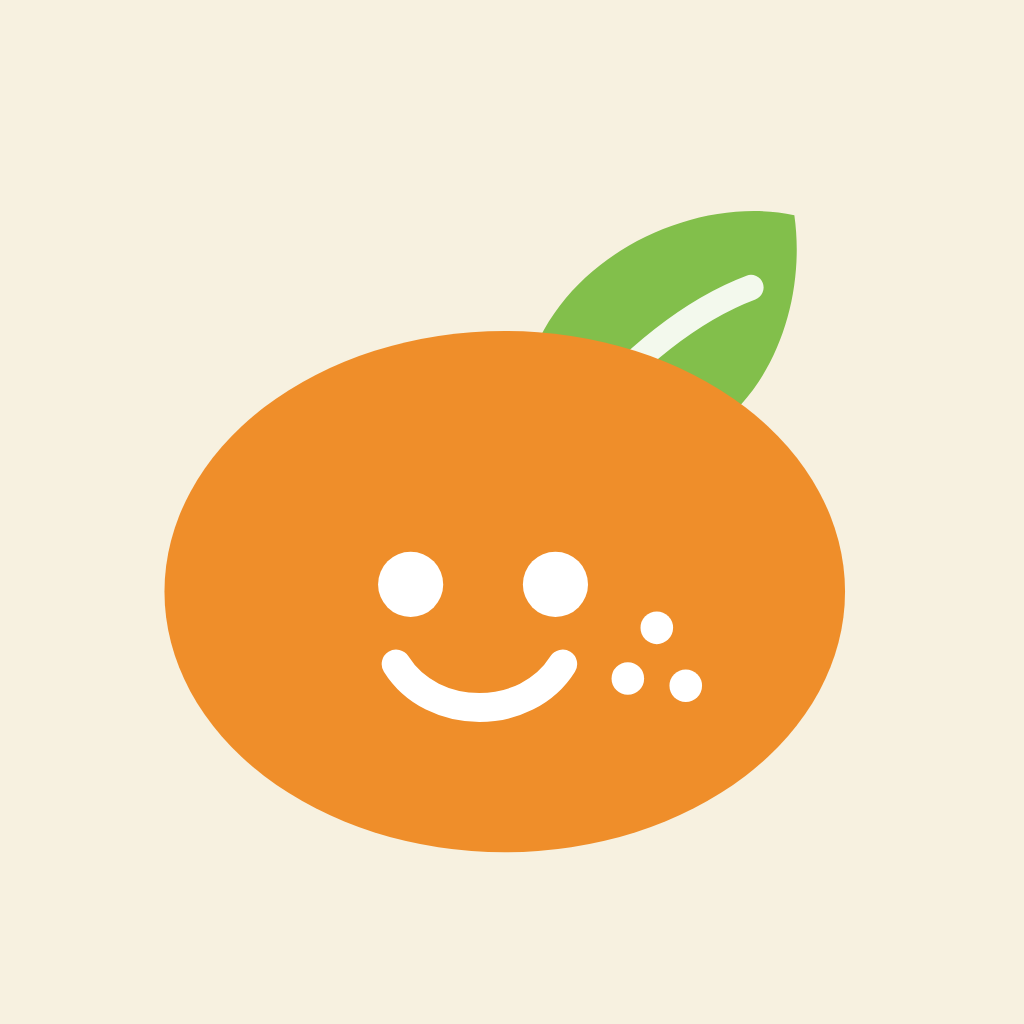
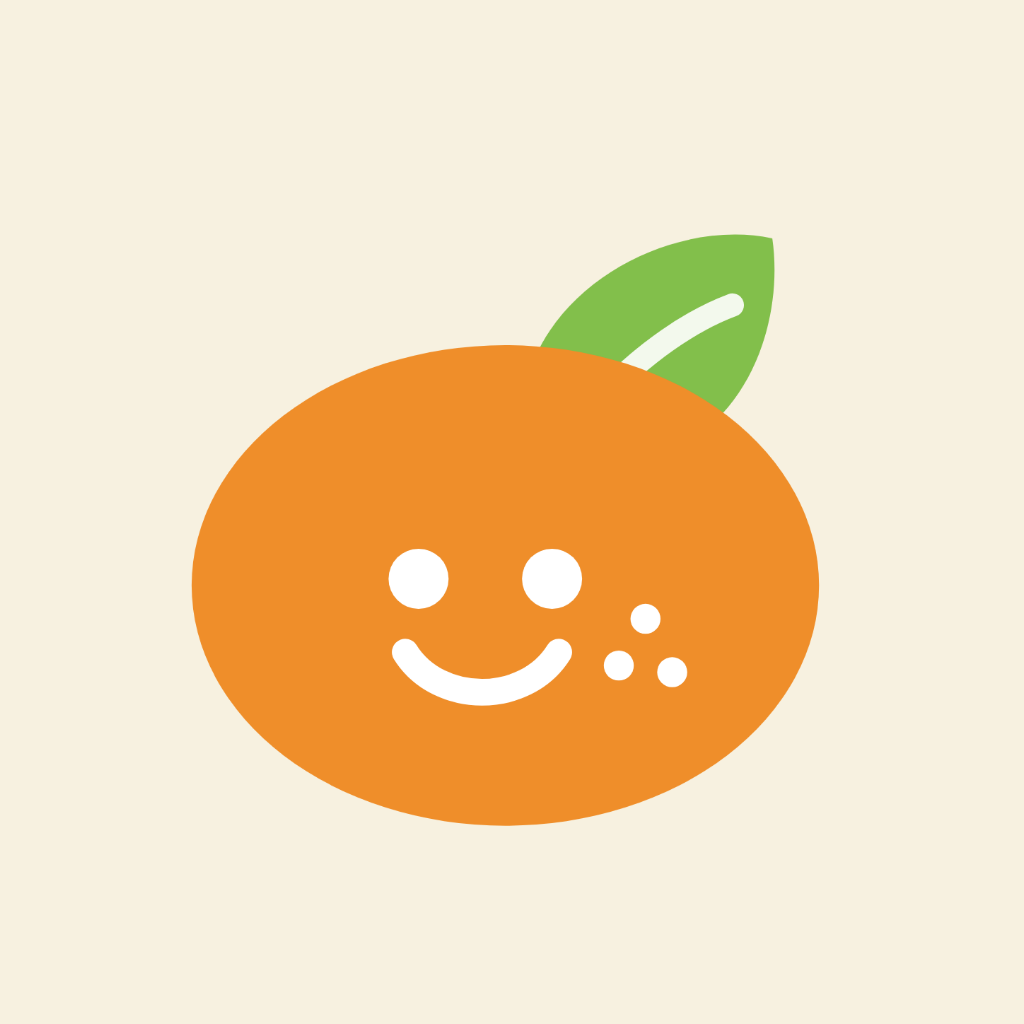
アイコン/マスコットを画像ベース化＋ブランド素材スロット(assets/brand/)を追加
- assets/brand/mikan.png を全マスコット・アイコンの元画像に一本化
- Mikan コンポーネントを SVG から画像表示へ変更（差し替えで全体反映）
- gen-icons.mjs を brand/mikan.png からアイコン/スプラッシュ/ファビコン生成に変更
- 差し替え手順を assets/brand/README.md に記載

Claude-Session: https://claude.ai/code/session_01557VRu2sU1vKFJTHaNKFXS

diff --git a/src/components/art/Mikan.tsx b/src/components/art/Mikan.tsx
@@ -1,57 +1,26 @@
 import React from 'react';
-import Svg, { Circle, Ellipse, Path, G } from 'react-native-svg';
-import { colors } from '@/theme';
+import { Image } from 'expo-image';
+
+// ★アプリ内みかんマスコットの元画像。assets/brand/mikan.png を差し替えれば全体に反映。
+const MIKAN = require('../../../assets/brand/mikan.png');
 
 type Props = {
   size?: number;
-  /** 顔を表示するか（ロゴ横の小さいみかんは顔なしでも可） */
+  /** 互換用（画像ベースでは常に顔あり）。true/false は表示に影響しない。 */
   face?: boolean;
 };
 
 /**
- * みかんマスコット。
- * 提供画像（オレンジの楕円ボディ＋右上の葉＋白い目・スマイル・3つのそばかす）を再現。
+ * みかんマスコット（画像ベース）。
+ * アイコン・マスコットを実画像で統一するため、SVGではなく assets/brand/mikan.png を表示する。
  */
-export function Mikan({ size = 96, face = true }: Props) {
+export function Mikan({ size = 96 }: Props) {
   return (
-    <Svg width={size} height={size} viewBox="0 0 200 200">
-      {/* 葉 */}
-      <G>
-        <Path
-          d="M104 62 C112 30 150 12 178 18 C182 46 168 82 132 86 C116 88 106 78 104 62 Z"
-          fill={colors.mikanLeaf}
-        />
-        {/* 葉の白いハイライト */}
-        <Path
-          d="M120 74 C132 58 150 44 166 38"
-          stroke="#FFFFFF"
-          strokeWidth={7}
-          strokeLinecap="round"
-          fill="none"
-          opacity={0.9}
-        />
-      </G>
-      {/* ボディ */}
-      <Ellipse cx="98" cy="122" rx="94" ry="72" fill={colors.mikan} />
-      {face && (
-        <G>
-          {/* 目 */}
-          <Circle cx="72" cy="120" r="9" fill="#FFFFFF" />
-          <Circle cx="112" cy="120" r="9" fill="#FFFFFF" />
-          {/* スマイル */}
-          <Path
-            d="M68 142 C78 158 104 158 114 142"
-            stroke="#FFFFFF"
-            strokeWidth={8}
-            strokeLinecap="round"
-            fill="none"
-          />
-          {/* そばかす（3点） */}
-          <Circle cx="140" cy="132" r="4.5" fill="#FFFFFF" />
-          <Circle cx="132" cy="146" r="4.5" fill="#FFFFFF" />
-          <Circle cx="148" cy="148" r="4.5" fill="#FFFFFF" />
-        </G>
-      )}
-    </Svg>
+    <Image
+      source={MIKAN}
+      style={{ width: size, height: size }}
+      contentFit="contain"
+      transition={150}
+    />
   );
 }

diff --git a/assets/brand/README.md b/assets/brand/README.md
@@ -1,0 +1,27 @@
+# ブランド素材（マスコット・アイコンの元画像）
+
+このフォルダの `mikan.png` が、アプリの**アイコン・スプラッシュ・アプリ内マスコット**すべての元画像です。
+**本物のみかん画像を同じファイル名 `mikan.png` で上書き**すれば、以下すべてに反映されます。
+
+| 反映先 | 生成物 | 用途 |
+|---|---|---|
+| アプリ内マスコット | `mikan.png` を直接表示 | ロゴ横・新規登録・ボトムナビ中央・楽しみ方 など |
+| アプリアイコン | `assets/icon.png` | ホーム画面のアイコン（クリーム地・不透明／iOS用） |
+| スプラッシュ | `assets/splash-icon.png` | 起動画面 |
+| ファビコン | `assets/favicon.png` | Web |
+
+## 差し替え手順
+
+1. **透過PNG（背景透明）** のみかん画像を用意（正方形・512px以上推奨）
+2. このフォルダに `mikan.png` という名前で上書きコミット
+   - GitHub Web からでも可：`assets/brand/` を開き「Add file → Upload files」
+3. アイコン類を再生成：
+
+   ```bash
+   node scripts/gen-icons.mjs      # mikan.png から icon / splash / favicon を生成
+   ```
+
+4. アプリ内マスコットは `mikan.png` を直接参照しているため、差し替えるだけで反映されます
+
+> 現在は暫定として、みかんを忠実にベクター再現した画像が入っています。
+> 本物の画像に差し替えると、アイコンもマスコットも実画像ベースになります。
